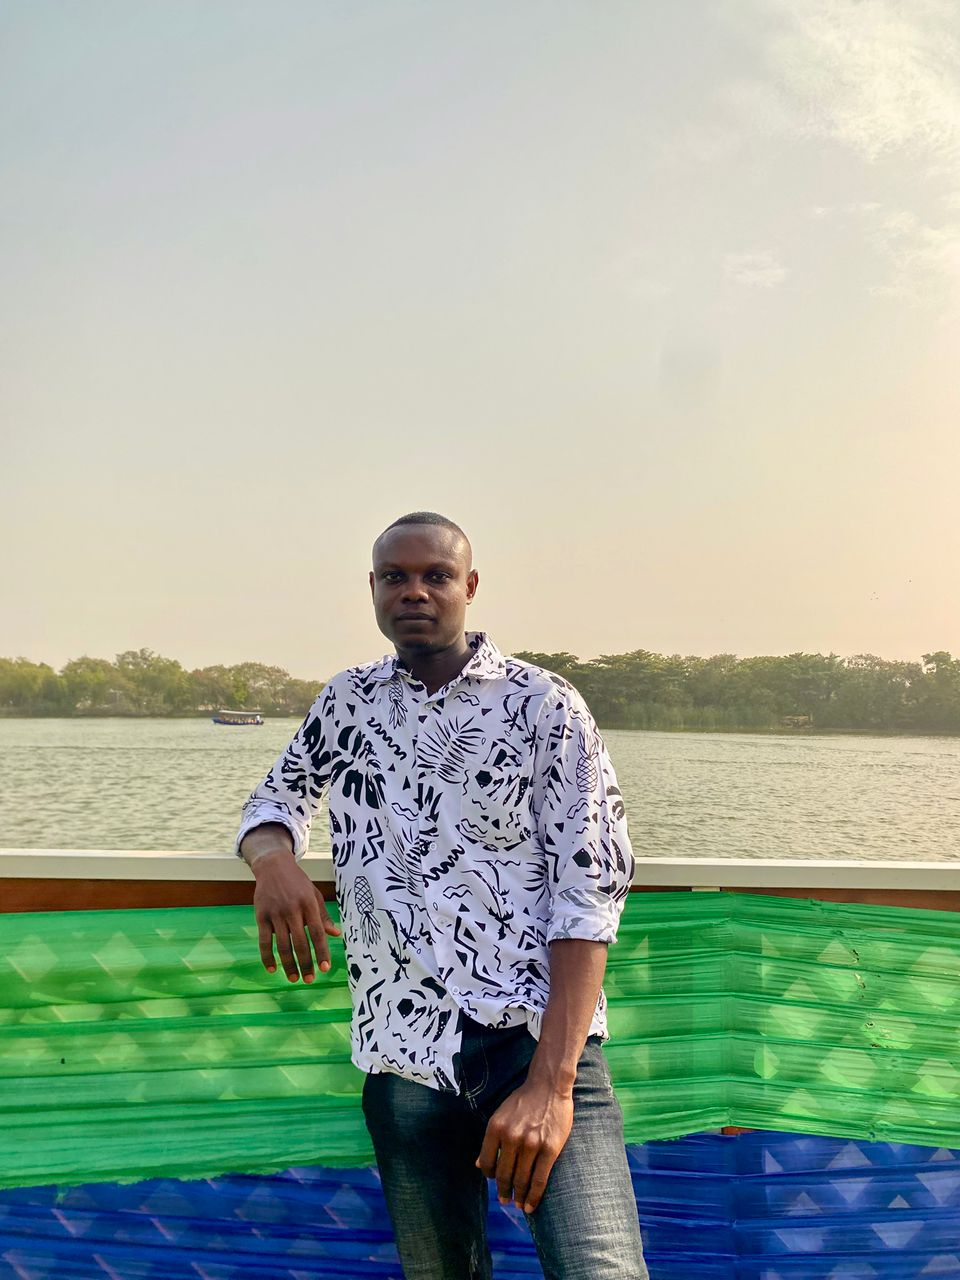
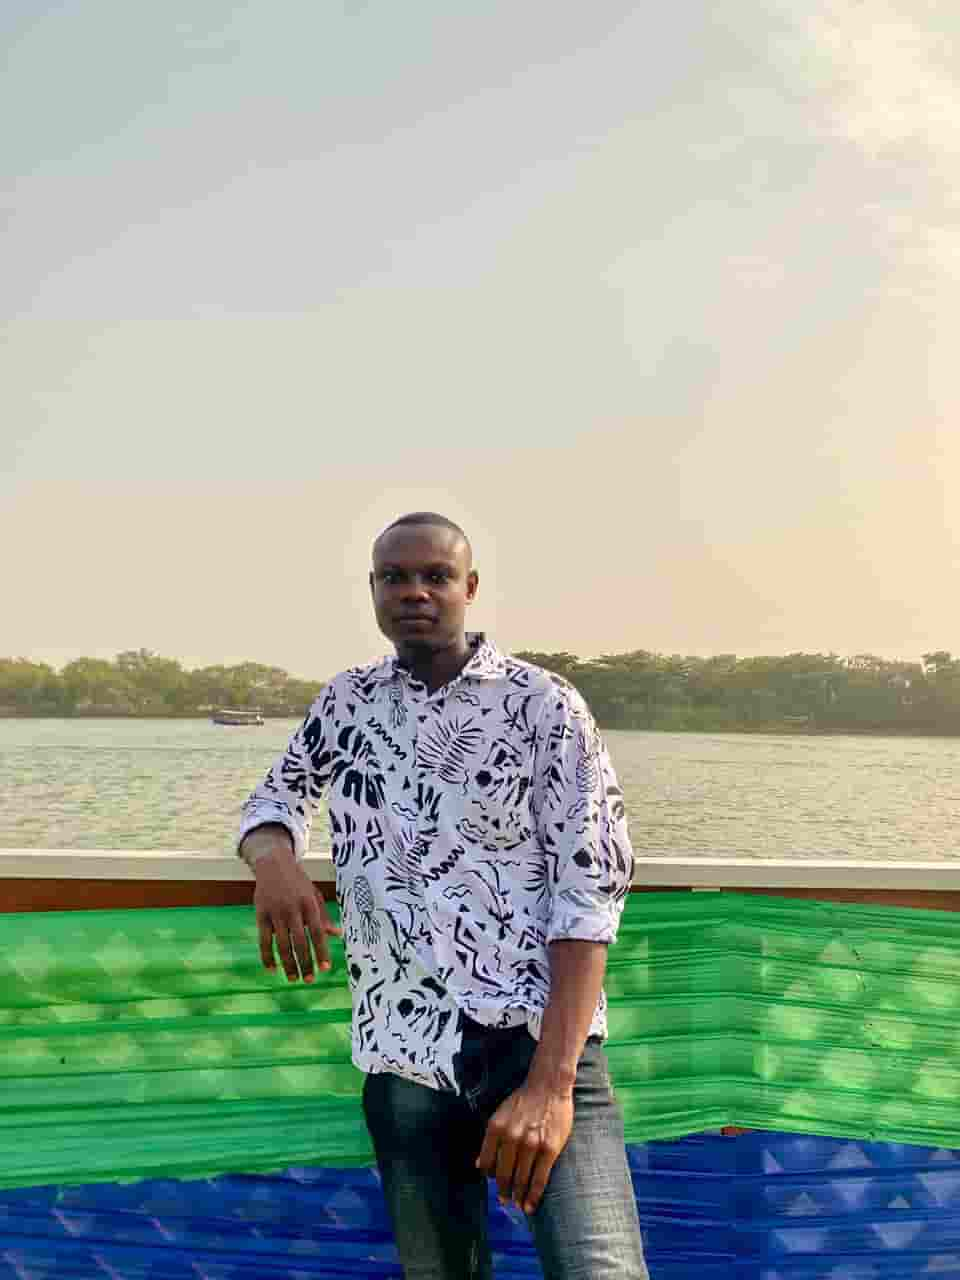
update

diff --git a/index.html b/index.html
@@ -33,7 +33,7 @@
         <div class="card-body">
           <div class="about-top">
             <p>My name is Emmanuel and I go by Manny. I was born and raised in Ghana, the land of gold and warm hospitality. I am currently studying web development to build a future in technology. My family is my greatest motivation and I love serving my community. I enjoy football, music, and learning new things every day.</p>
-            <img src="images/emmanuel (1).jpg" alt="Portrait photo of Emmanuel Okyere" width="120" height="150">
+            <img src="images/emmanuel.jpg" alt="Portrait photo of Emmanuel Okyere" width="120" height="150">
           </div>
 
           <hr>
